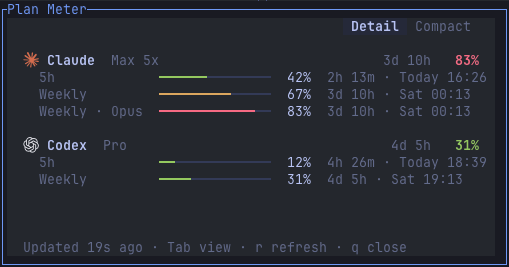
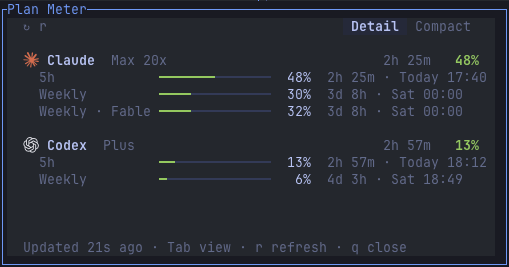
Replace the README screenshots with real readings
The screenshots showed the live UI but demo data, and the demo data
invented a weekly Opus window. The usage endpoint returns
seven_day_opus: null and the only per-model weekly cap it reports is
Fable, so demo mode says Fable now too.

diff --git a/meter.py b/meter.py
@@ -310,7 +310,7 @@ def demo_data(now):
         "claude": {"plan": "Max 5x", "fetched_at": now - 20, "windows": [
             {"kind": "session", "used": 42, "resets_at": now + 2 * h + 13 * 60},
             {"kind": "weekly", "used": 67, "resets_at": now + 3 * d + 10 * h},
-            {"kind": "weekly", "model": "Opus", "used": 83, "resets_at": now + 3 * d + 10 * h}]},
+            {"kind": "weekly", "model": "Fable", "used": 83, "resets_at": now + 3 * d + 10 * h}]},
         "codex": {"plan": "Pro", "fetched_at": now - 20, "windows": [
             {"kind": "session", "used": 12, "resets_at": now + 4 * h + 26 * 60},
             {"kind": "weekly", "used": 31, "resets_at": now + 4 * d + 5 * h}]},

diff --git a/README.ko.md b/README.ko.md
@@ -10,11 +10,11 @@
 
 [English](README.md) · **한국어**
 
-<img src="assets/popup.png" width="509" alt="Plan Meter 팝업: Claude Max 5x 5시간 42%·주간 67%·주간 Opus 83%, Codex Pro 12%·31%, 한도마다 막대와 초기화 시각">
+<img src="assets/popup.png" width="509" alt="Plan Meter 팝업: Claude Max 20x 5시간 48%·주간 30%·주간 Fable 32%, Codex Plus 13%·6%, 한도마다 막대와 초기화 시각">
 <br>
-<img src="assets/tab-bar.png" width="338" alt="탭 바: Claude 83% 사용·3d 9h 후 초기화, Codex 31% 사용·4d 4h 후 초기화">
+<img src="assets/tab-bar.png" width="352" alt="탭 바: Claude 48% 사용·2h 25m 후 초기화, Codex 13% 사용·2h 57m 후 초기화">
 
-<sub>데모 데이터(<code>PLAN_METER_DEMO=1</code>), 브랜드 아이콘 켬. UI는 한국어로도 나옵니다.</sub>
+<sub>실제 계정(Claude Max 20x · ChatGPT Plus)의 사용량, 브랜드 아이콘 켬. UI는 한국어로도 나옵니다.</sub>
 
 </div>
 
@@ -142,7 +142,7 @@ herdr plugin uninstall junseo99.plan-meter
 PLAN_METER_DEMO=1 python3 meter.py panel
 ```
 
-데모 모드는 인증 정보를 읽거나 네트워크에 접속하지 않고 샘플 데이터를 그립니다. 위 스크린샷도 데모 모드입니다.
+데모 모드는 인증 정보를 읽거나 네트워크에 접속하지 않고 샘플 데이터를 그립니다.
 
 ## 개발
 

diff --git a/README.md b/README.md
@@ -10,11 +10,11 @@ The limit you are closest to sits in the tab bar. One key opens every window.
 
 **English** · [한국어](README.ko.md)
 
-<img src="assets/popup.png" width="509" alt="Plan Meter popup: Claude Max 5x at 42% of the 5-hour window, 67% weekly and 83% weekly Opus; Codex Pro at 12% and 31%, each with a bar and reset time">
+<img src="assets/popup.png" width="509" alt="Plan Meter popup: Claude Max 20x at 48% of the 5-hour window, 30% weekly and 32% weekly Fable; Codex Plus at 13% and 6%, each with a bar and reset time">
 <br>
-<img src="assets/tab-bar.png" width="338" alt="Tab bar: Claude 83% used, resets in 3d 9h; Codex 31% used, resets in 4d 4h">
+<img src="assets/tab-bar.png" width="352" alt="Tab bar: Claude 48% used, resets in 2h 25m; Codex 13% used, resets in 2h 57m">
 
-<sub>Demo data (<code>PLAN_METER_DEMO=1</code>), brand icons on.</sub>
+<sub>Real usage from a Claude Max 20x and a ChatGPT Plus account, brand icons on.</sub>
 
 </div>
 
@@ -142,7 +142,7 @@ After uninstalling, remove the snippet from `config.toml` and delete `~/.cache/h
 PLAN_METER_DEMO=1 python3 meter.py panel
 ```
 
-Demo mode renders sample data without reading credentials or touching the network. The screenshots above use it.
+Demo mode renders sample data without reading credentials or touching the network.
 
 ## Development
 

diff --git a/CHANGELOG.md b/CHANGELOG.md
@@ -2,6 +2,13 @@
 
 All notable changes to this project are documented here. The project follows [Semantic Versioning](https://semver.org/spec/v2.0.0.html).
 
+## [Unreleased]
+
+### Changed
+
+- README screenshots show real usage instead of demo data.
+- Demo mode's per-model weekly window is Fable, the one Claude's usage endpoint reports, instead of an Opus window that does not exist.
+
 ## [0.1.0] - 2026-09-15
 
 ### Added
